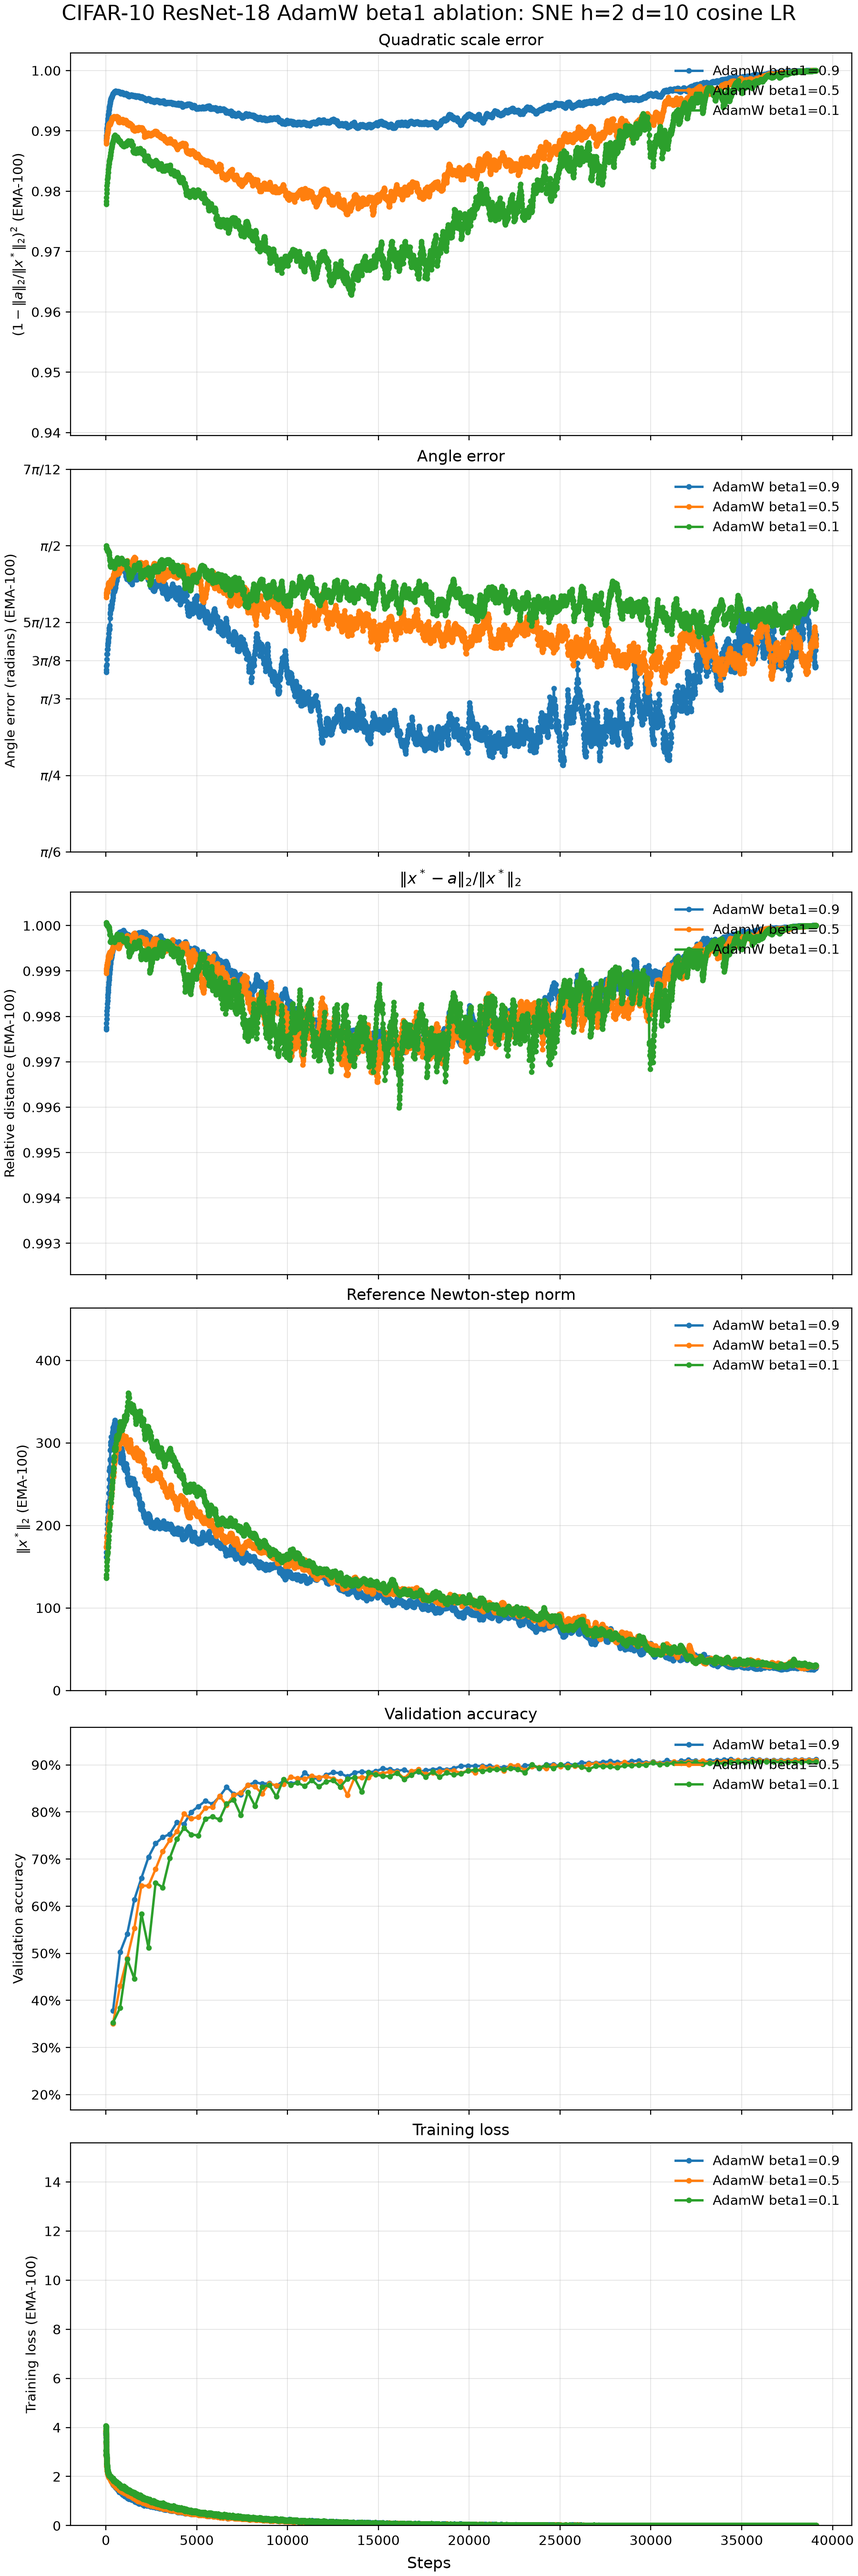
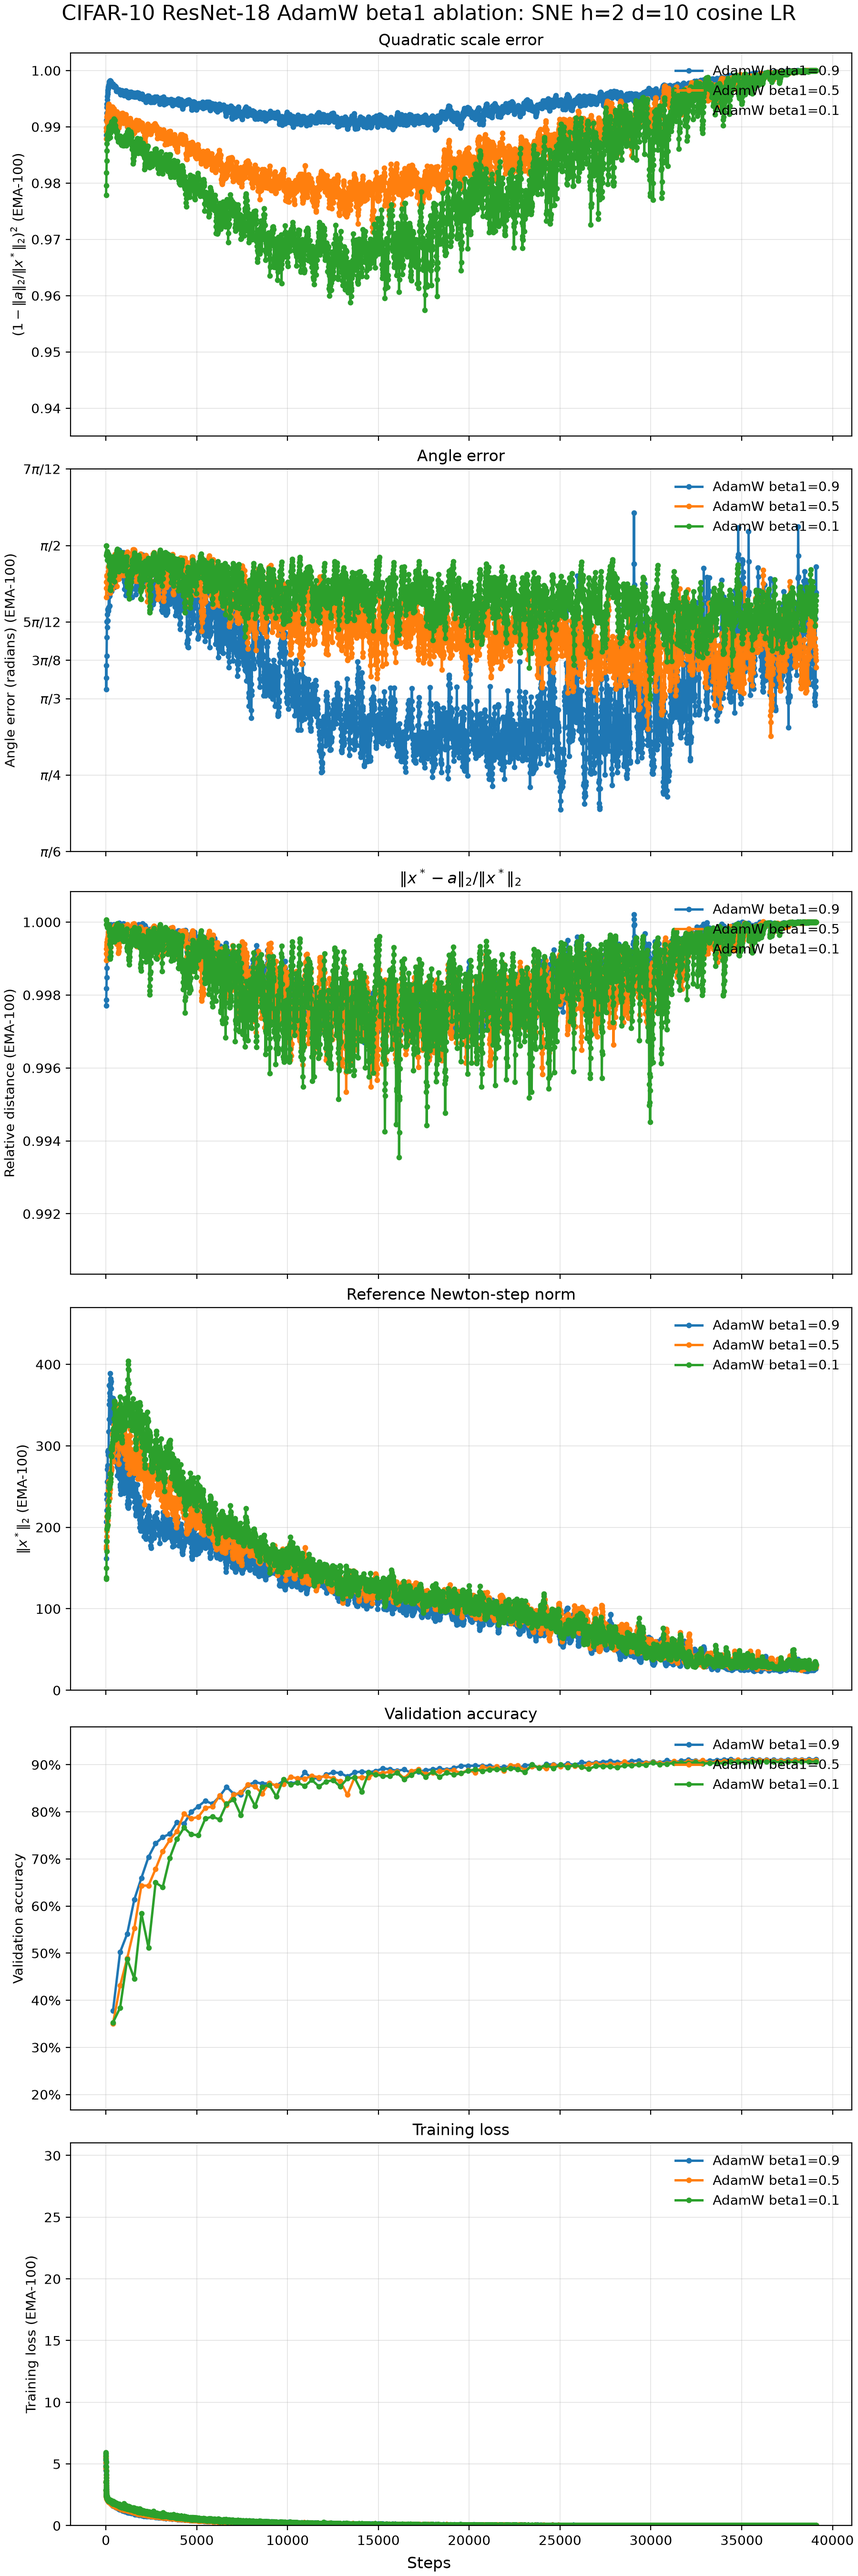
Replot dashboard with EMA epsilon 1e-8

diff --git a/index.html b/index.html
@@ -127,7 +127,7 @@
             per step and interval \(d=10\), hence sketch size \(m=20\). Training loss
             is recorded every step, the three geometric measurements every ten steps,
             and validation accuracy once per epoch. The geometric and training curves
-            use an EMA-100 with \(\lambda^{100}=0.01\); validation remains unsmoothed. Scale is
+            use an EMA-100 with \(\lambda^{100}=10^{-8}\); validation remains unsmoothed. Scale is
             reported exclusively as \((1-\|a\|_2/\|x^*\|_2)^2\).
           </p>
         </header>
@@ -217,7 +217,7 @@
             momentum changes, leaving the auxiliary AdamW path fixed; for AdamW the
             sweep changes \(\beta_1\) while \(\beta_2=0.999\); for SGD it changes the
             conventional momentum coefficient. SNE again uses \(h=2\), \(d=10\), and
-            \(m=20\), with EMA-100 (\(\lambda^{100}=0.01\)) applied only to geometry and training loss and raw
+            \(m=20\), with EMA-100 (\(\lambda^{100}=10^{-8}\)) applied only to geometry and training loss and raw
             validation accuracy retained at one observation per epoch.
           </p>
         </header>
@@ -317,7 +317,7 @@
             step, geometry every five steps, and validation cross-entropy over 200
             batches every 250 steps. The model remains in training mode while an RNG
             snapshot replays the forward-pass dropout realization inside estimator
-            closures. Geometry and training use EMA-10 (\(\lambda^{10}=0.01\)), validation remains raw, and
+            closures. Geometry and training use EMA-10 (\(\lambda^{10}=10^{-8}\)), validation remains raw, and
             both task losses are shown as perplexity. Scale error is
             \((1-\|a\|_2/\|x^*\|_2)^2\).
           </p>

diff --git a/scripts/build_dashboard_plots.py b/scripts/build_dashboard_plots.py
@@ -31,7 +31,7 @@ LANGUAGE_METRICS = (
 )
 MOVING_AVERAGE_TYPES = ("simple", "exponential")
 DEFAULT_MOVING_AVERAGE_TYPE = "exponential"
-DEFAULT_MOVING_AVERAGE_EPSILON = 0.01
+DEFAULT_MOVING_AVERAGE_EPSILON = 1.0e-8
 NONNEGATIVE_METRICS = {
     "quadratic_scale_distances",
     "relative_distances",

diff --git a/README.md b/README.md
@@ -15,7 +15,7 @@ that section's configured moving average, then supplies those same limits to eve
 separate six-row figure. It writes the exact source paths and numeric limits to
 `assets/plots/manifest.json`. Validation curves remain unsmoothed, and scale
 error is always quadratic. Exponential moving average is the default, with
-`decay = epsilon ** (1 / window_size)` and `epsilon = 0.01`; simple trailing
+`decay = epsilon ** (1 / window_size)` and `epsilon = 1e-8`; simple trailing
 moving average remains selectable. CIFAR sections use EMA-100; the
 character-level Shakespeare section uses EMA-10 and displays task losses as
 perplexity.
